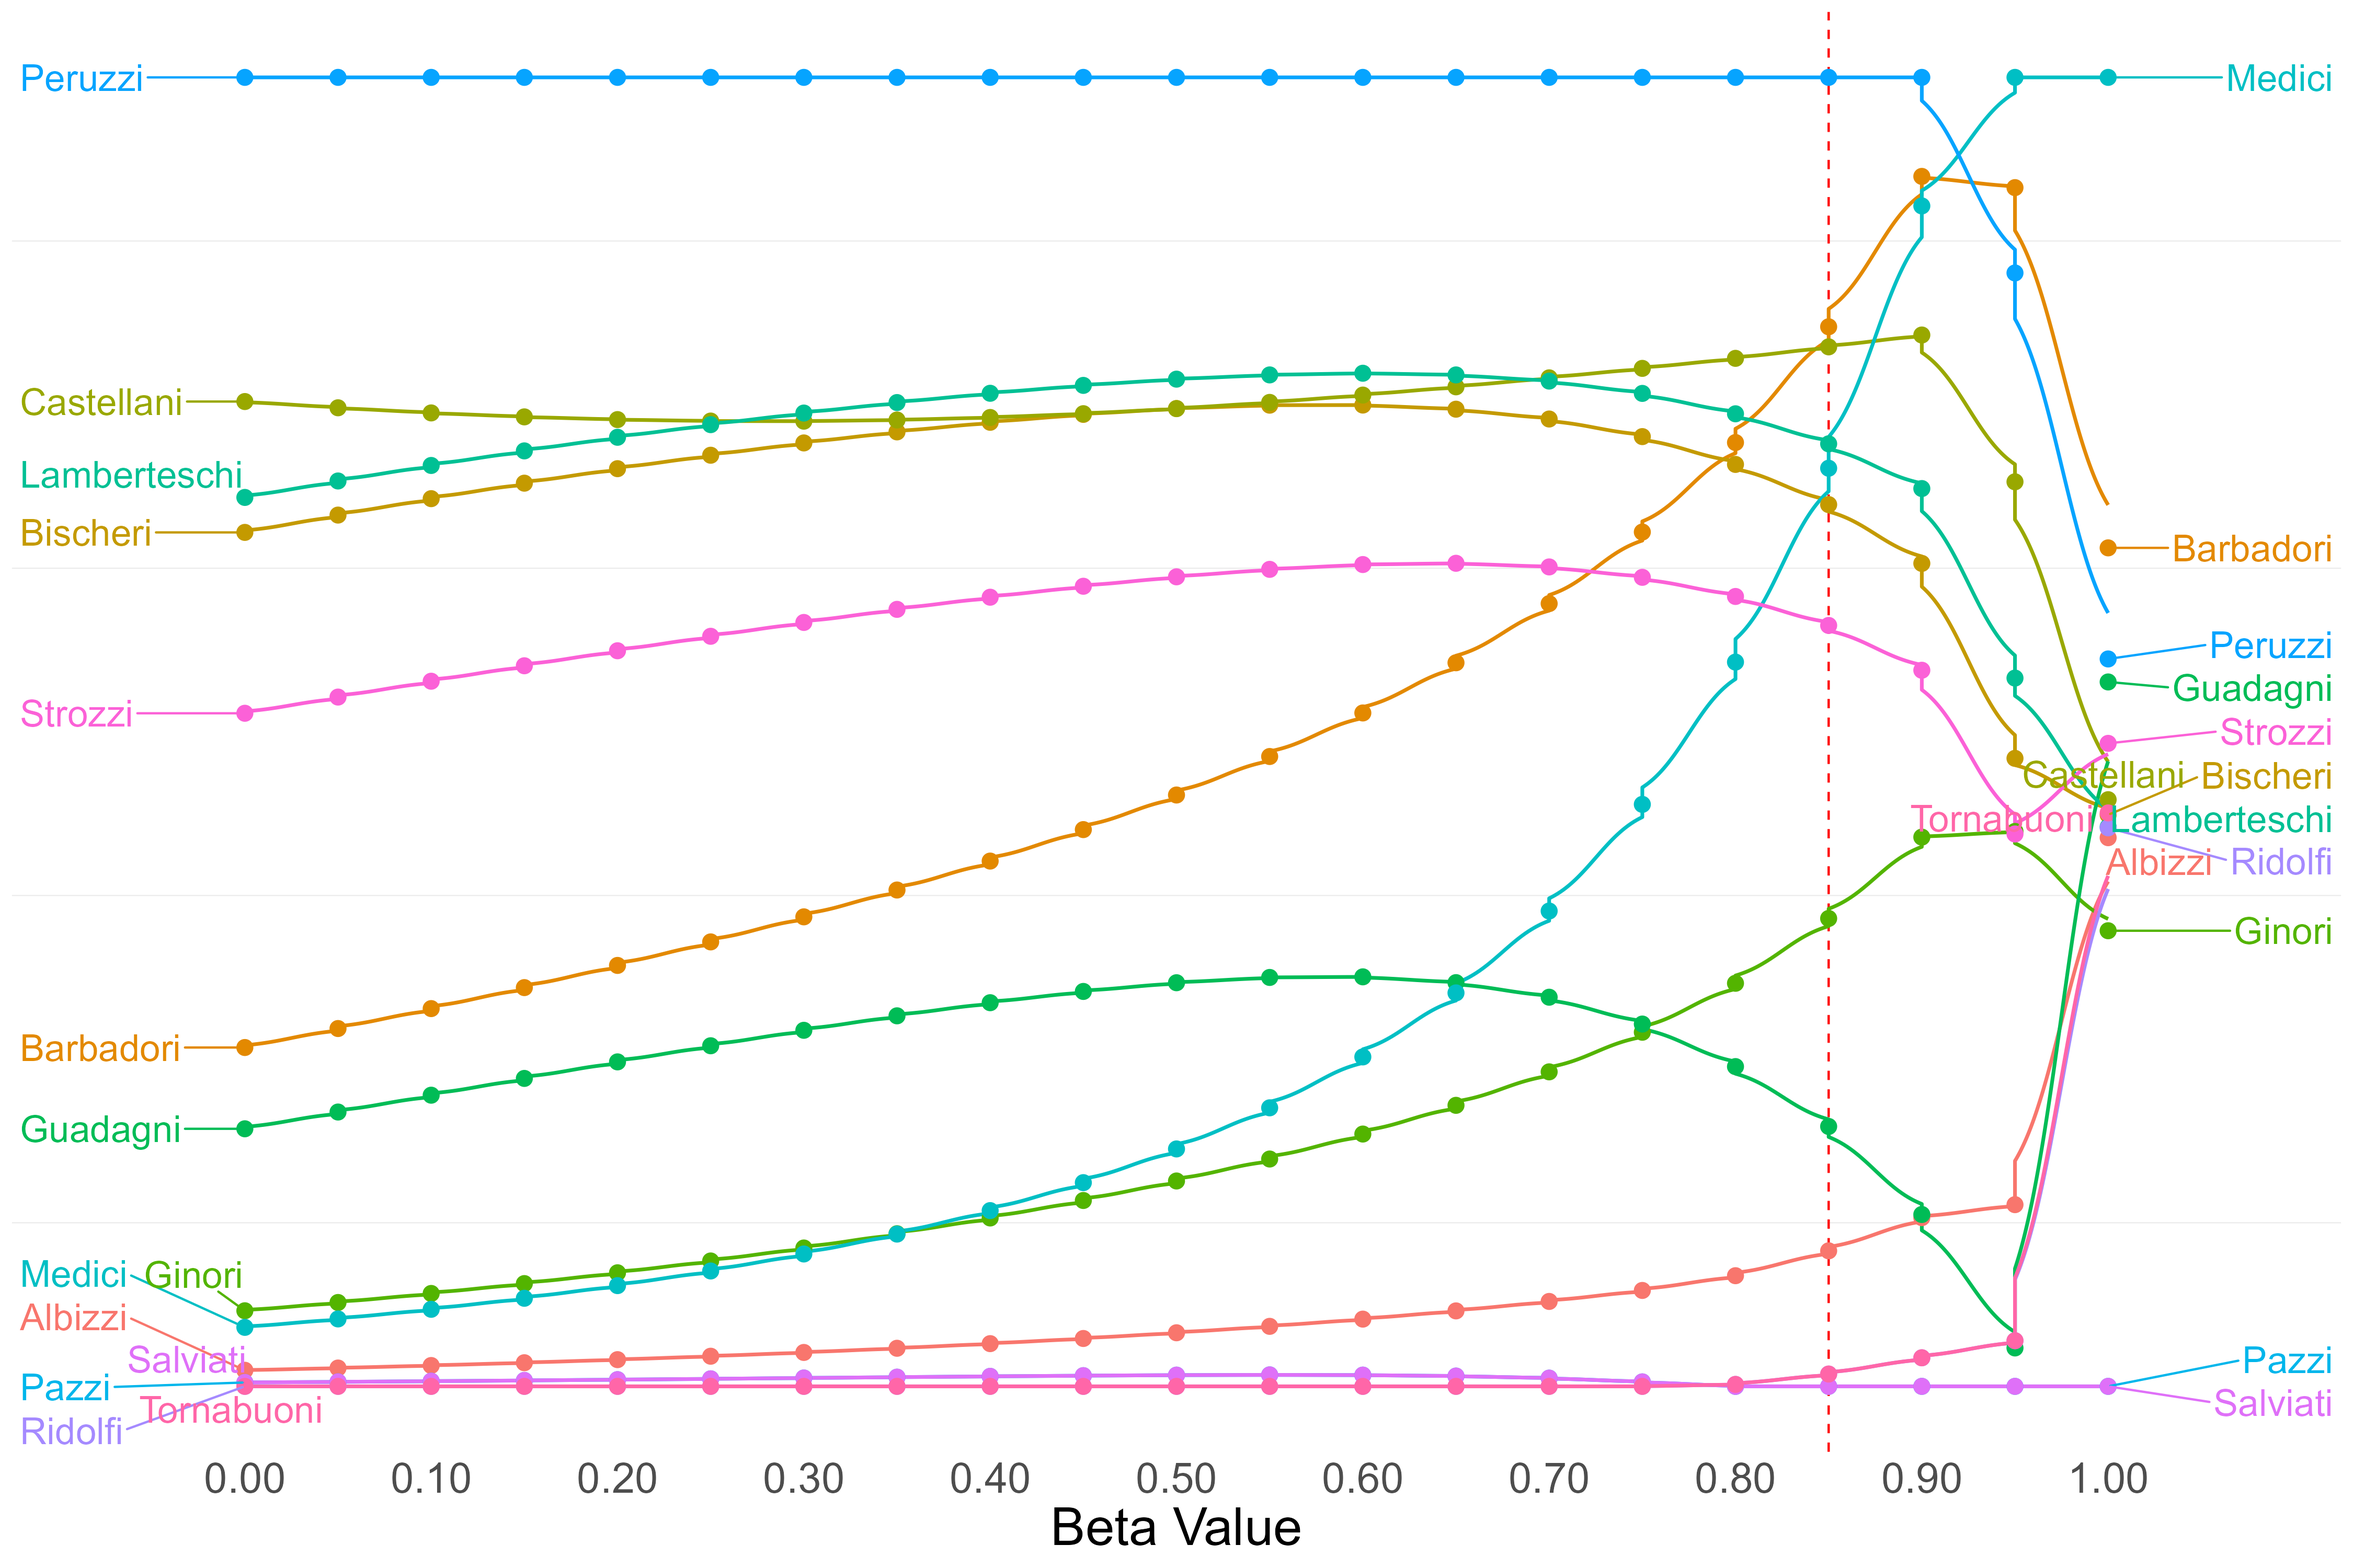
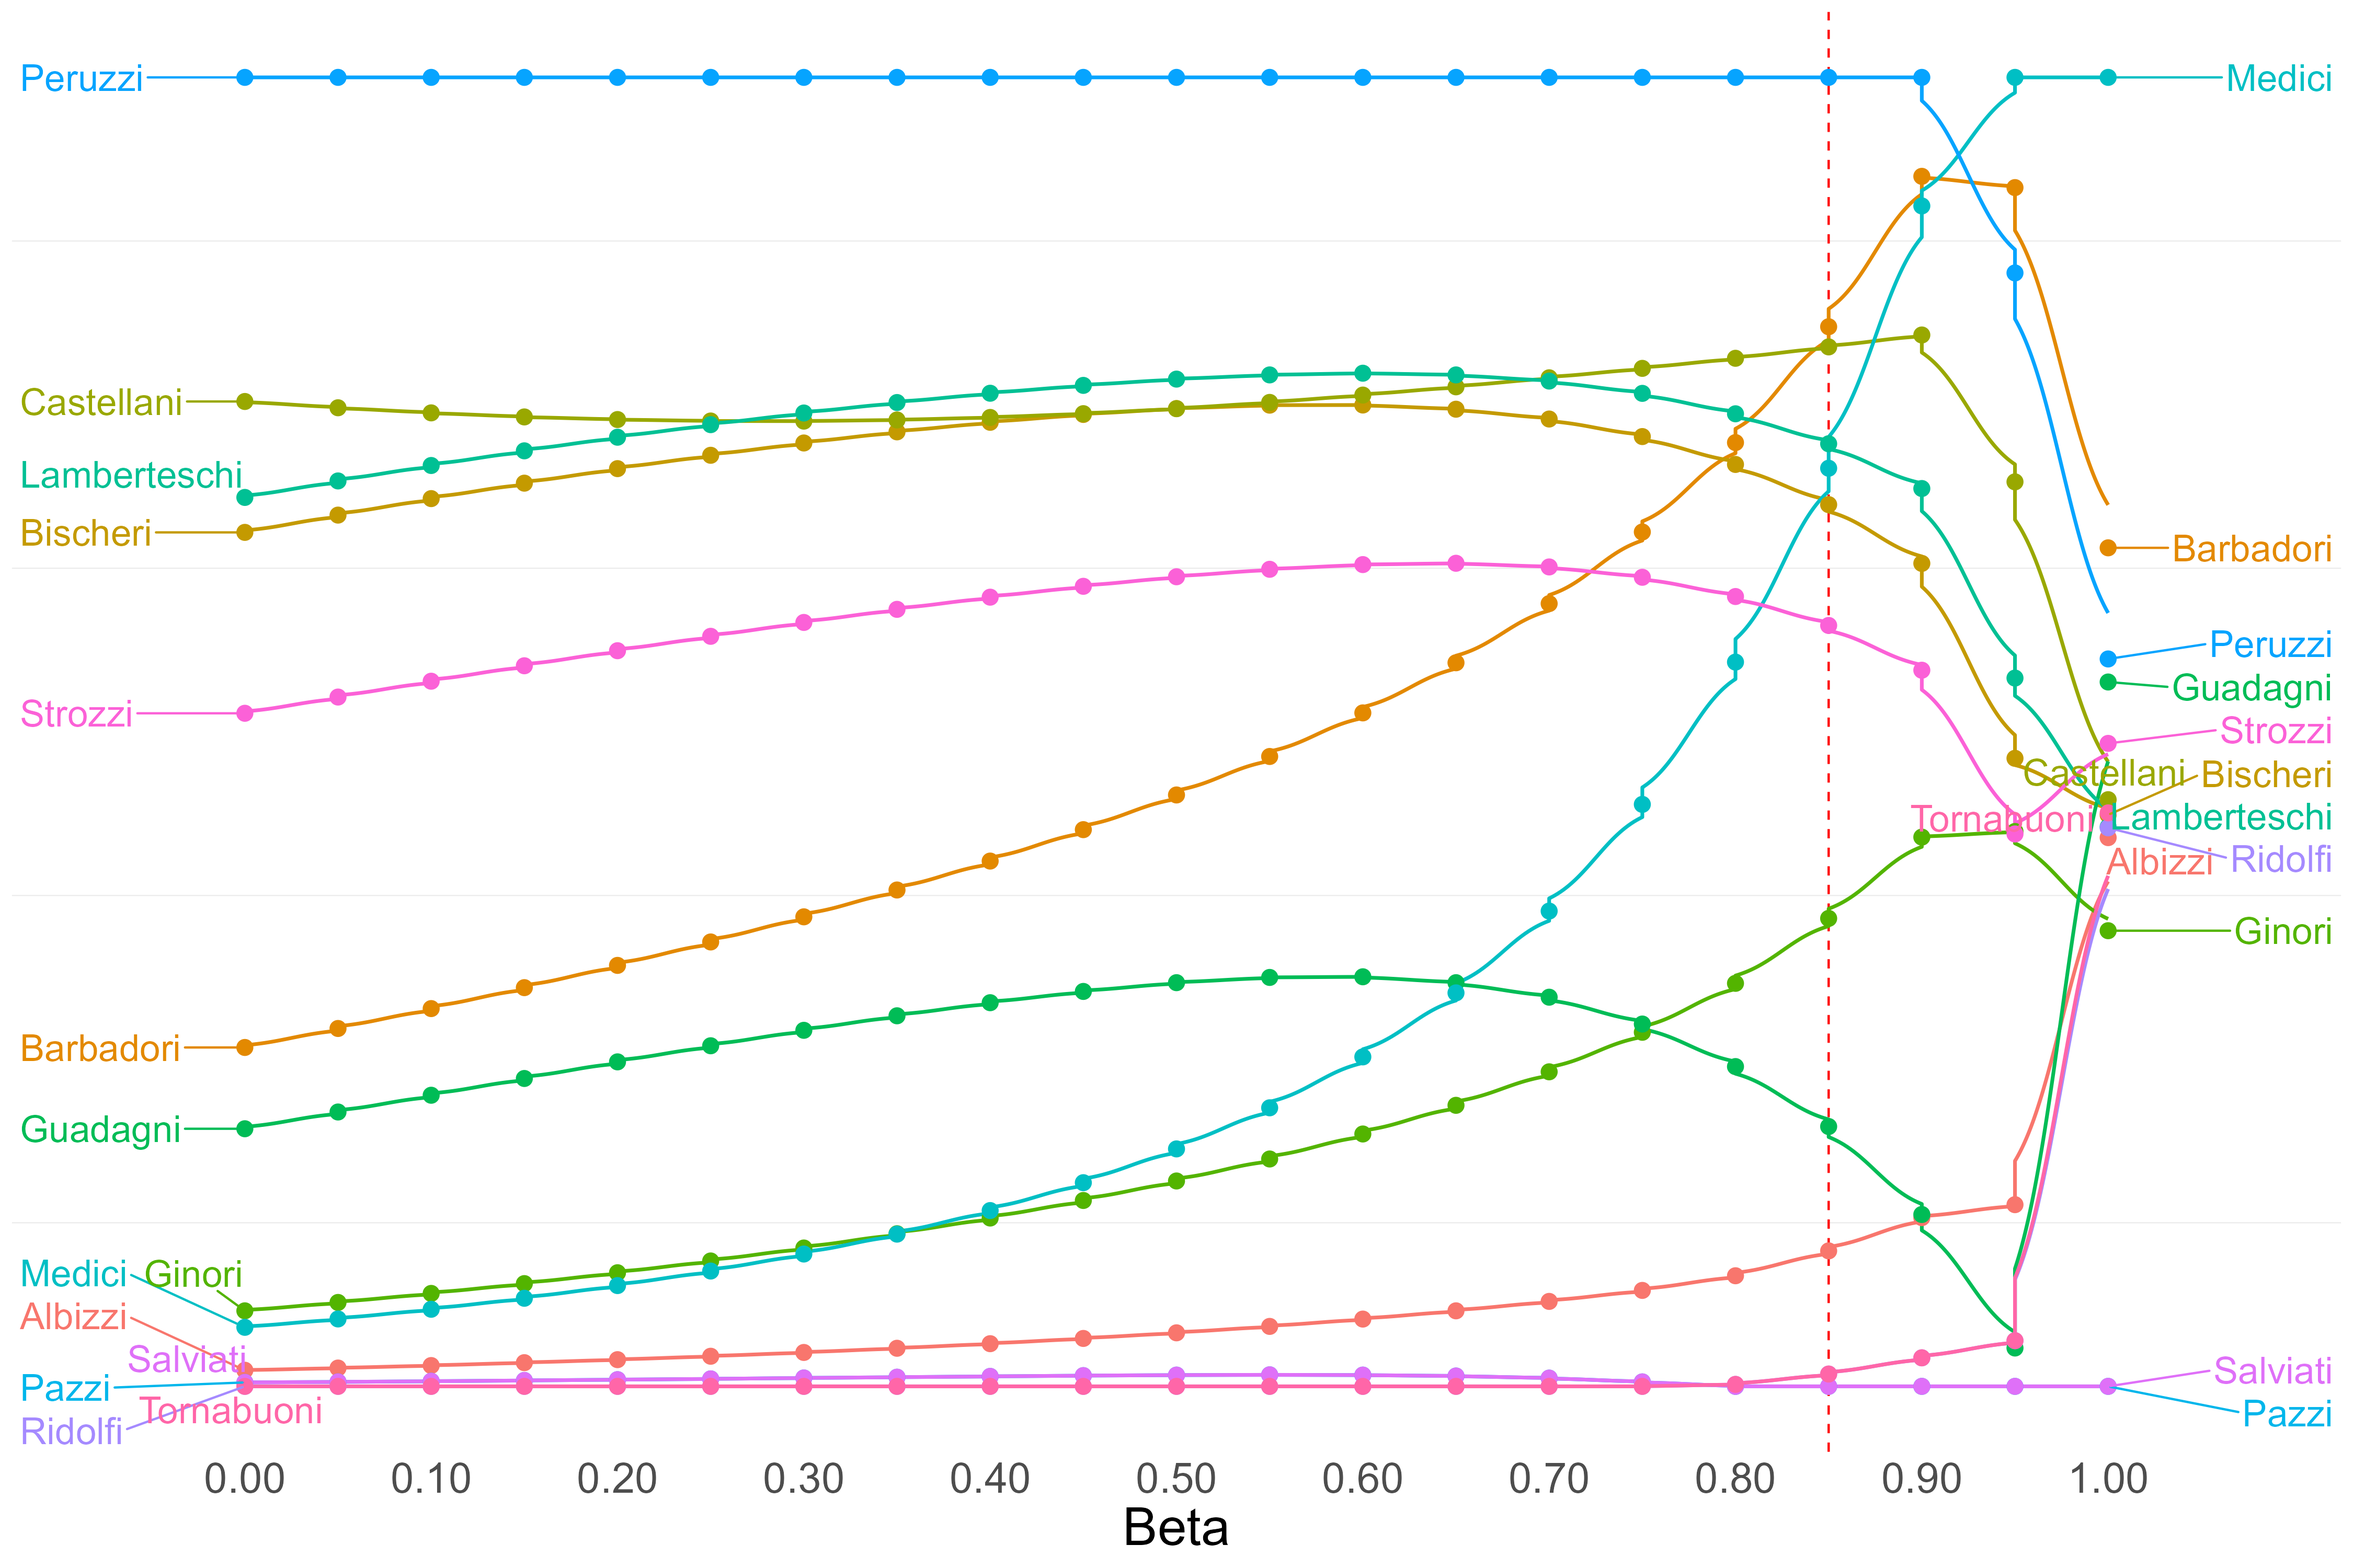
more efficient

diff --git a/main.tex b/main.tex
@@ -13,12 +13,12 @@ Castellani & 0.779 & Peruzzi & 0.556 & Lamberteschi & 0.679 & Castellani & 0.794
 Lamberteschi & 0.744 & Guadagni & 0.538 & Bischeri & 0.652 & Lamberteschi & 0.720\\
 Bischeri & 0.729 & Strozzi & 0.491 & Strozzi & 0.514 & Medici & 0.701\\
 Barbadori & 0.717 & Castellani & 0.448 & Barbadori & 0.259 & Bischeri & 0.674\\
-Strozzi & 0.702 & Tornabuoni & 0.438 & Guadagni & 0.197 & Strozzi & 0.581\\
-Guadagni & 0.513 & Bischeri & 0.437 & Ginori & 0.058 & Ginori & 0.357\\
-Ginori & 0.349 & Lamberteschi & 0.427 & Medici & 0.045 & Guadagni & 0.199\\
+Strozzi & 0.703 & Tornabuoni & 0.438 & Guadagni & 0.197 & Strozzi & 0.581\\
+Guadagni & 0.513 & Bischeri & 0.437 & Ginori & 0.058 & Ginori & 0.358\\
+Ginori & 0.349 & Lamberteschi & 0.427 & Medici & 0.045 & Guadagni & 0.198\\
 Ridolfi & 0.345 & Ridolfi & 0.427 & Albizzi & 0.012 & Albizzi & 0.104\\
-Albizzi & 0.308 & Albizzi & 0.419 & Salviati & 0.003 & Ridolfi & 0.009\\
-Tornabuoni & 0.307 & Ginori & 0.348 & Pazzi & 0.003 & Tornabuoni & 0.009\\
+Albizzi & 0.308 & Albizzi & 0.419 & Pazzi & 0.003 & Ridolfi & 0.009\\
+Tornabuoni & 0.307 & Ginori & 0.348 & Salviati & 0.003 & Tornabuoni & 0.009\\
 Pazzi & 0.000 & Pazzi & 0.000 & Ridolfi & 0.000 & Pazzi & 0.000\\
 Salviati & 0.000 & Salviati & 0.000 & Tornabuoni & 0.000 & Salviati & 0.000\\
 \bottomrule
